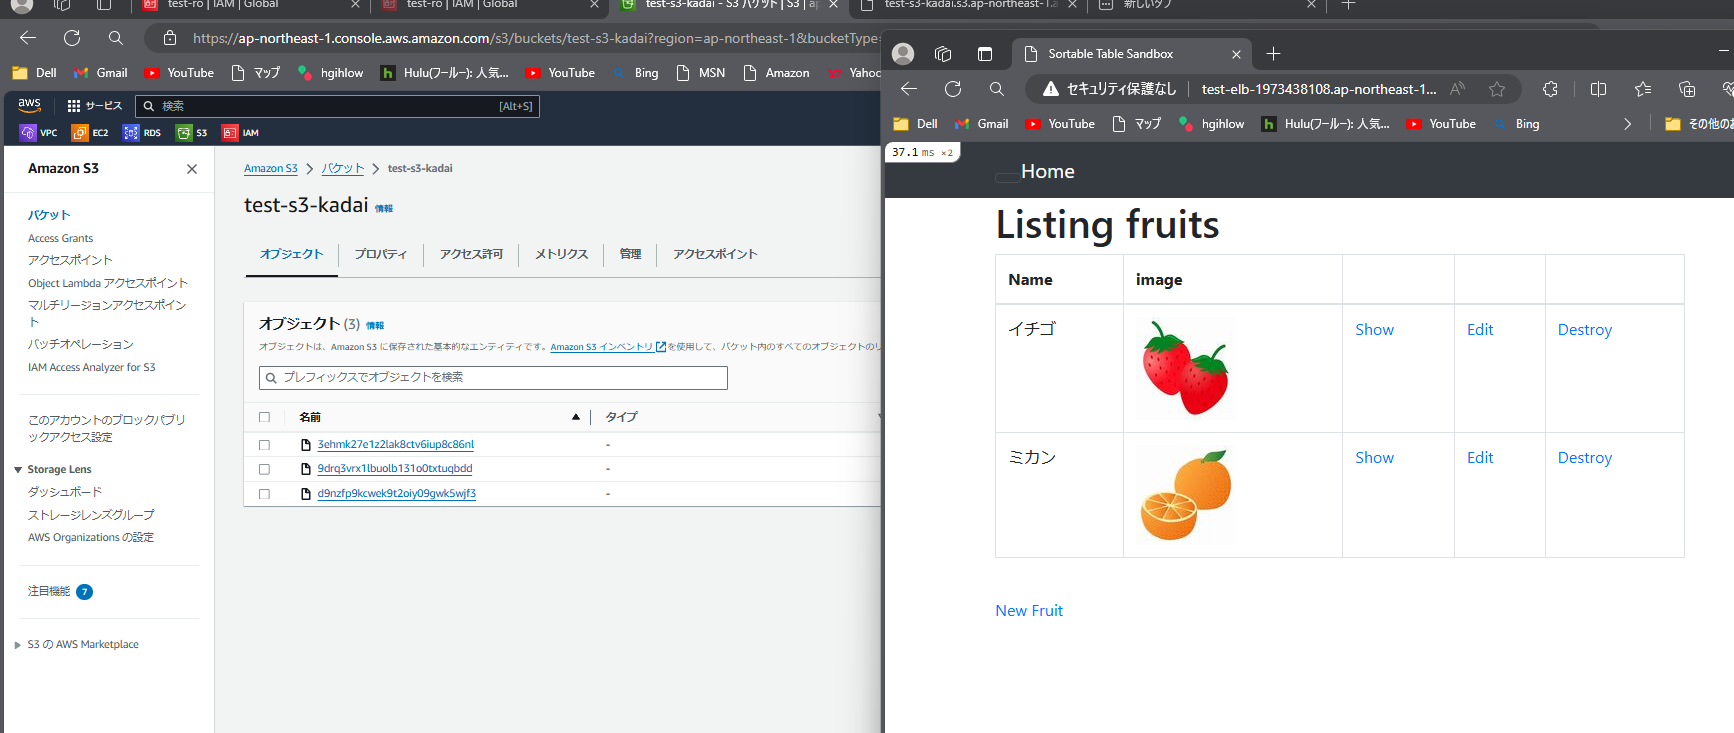
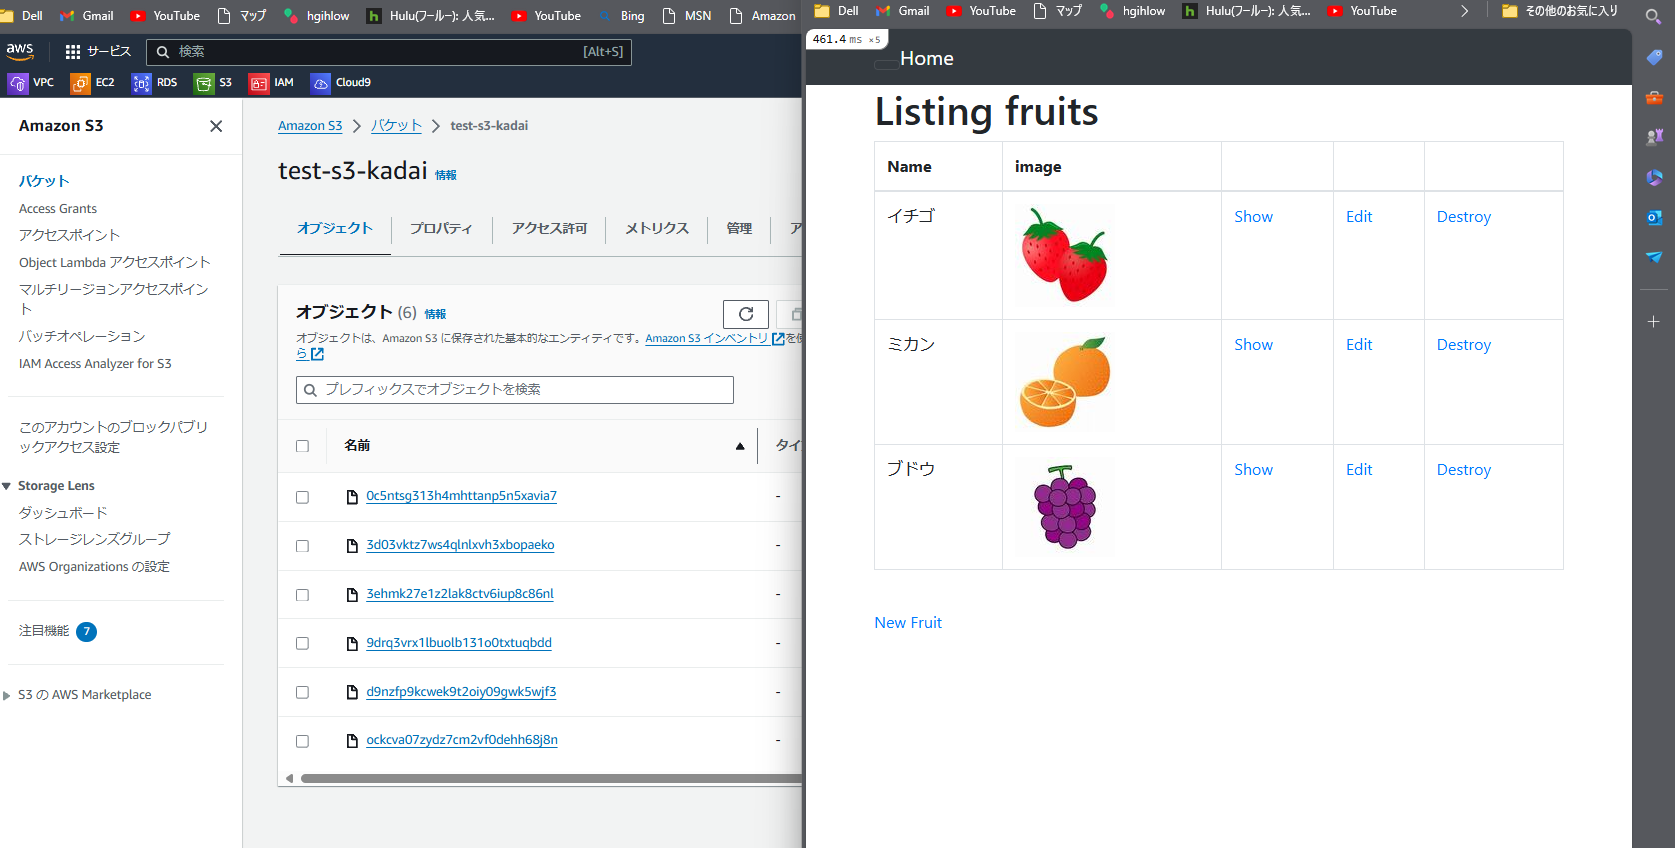
add img5 mdfail5

diff --git a/mdfail5/5.md b/mdfail5/5.md
@@ -6,15 +6,16 @@
 - インスタンスにチェックを入れて保留中として以下を含めるを選択し、ターゲットグループ作成を押す。 
 
 5.2 セキュリティグループを作成
-- ELBようにセキュリティグループを作る 
-![in](../img5/step5/in.png) 
+- ELBようにセキュリティグループを作る  
+![in](../img5/step5/in.png)   
 ![out](../img5/step5/out.png) 
 
 5.3 ロードバランサーの作成 
-- 下画像のように設定する（ターゲットグループで使用中となっている個所に先ほど作ったターゲットグループが表示される。） 
-![1](../img5/step5/elb1.png) 
-![2](../img5/step5/elb2.png) 
-![3](../img5/step5/elb3.png) 
+- 下画像のように設定する（ターゲットグループで使用中となっている個所に先ほど作ったターゲットグループが表示される。）   
+![1](../img5/step5/elb1.png)  
+![2](../img5/step5/elb2.png)  
+![3](../img5/step5/elb3.png)  
+
 
 5.4 ロードバランサーで接続 
 
@@ -22,8 +23,9 @@
 ![blocked](../img5/step5/blockhosterror.png) 
 
 5.5 config.hosts 
-- config.hostsを指定する。config/envieonments/development.rbを編集する。 
- config.hosts  << "DNS名" 
+- config.hostsを指定する。config/envieonments/development.rbを編集する。  
+
+  config.hosts  << "DNS名" 
 
 5.6 サーバーを再起動する。必ず。    
    ![seikou](../img5/step5/alb.png)

diff --git a/mdfail5/4.md b/mdfail5/4.md
@@ -30,7 +30,7 @@
            proxy_pass http://puma;
        }    
 ``` 
-4.2 nignx再起動 
+4.2 nginx再起動 
 ```bash:title 
 #設定の反映
 $ sudo nginx -t

diff --git a/mdfail5/6.md b/mdfail5/6.md
@@ -42,5 +42,5 @@ secret_access_key:  <%= ENV['AWS_SECRET_ACCESS_KEY'] %>
 
 6.7 構成図  
 
-
+![kouseizu](../img5/step6/kouseizu.png)
 
